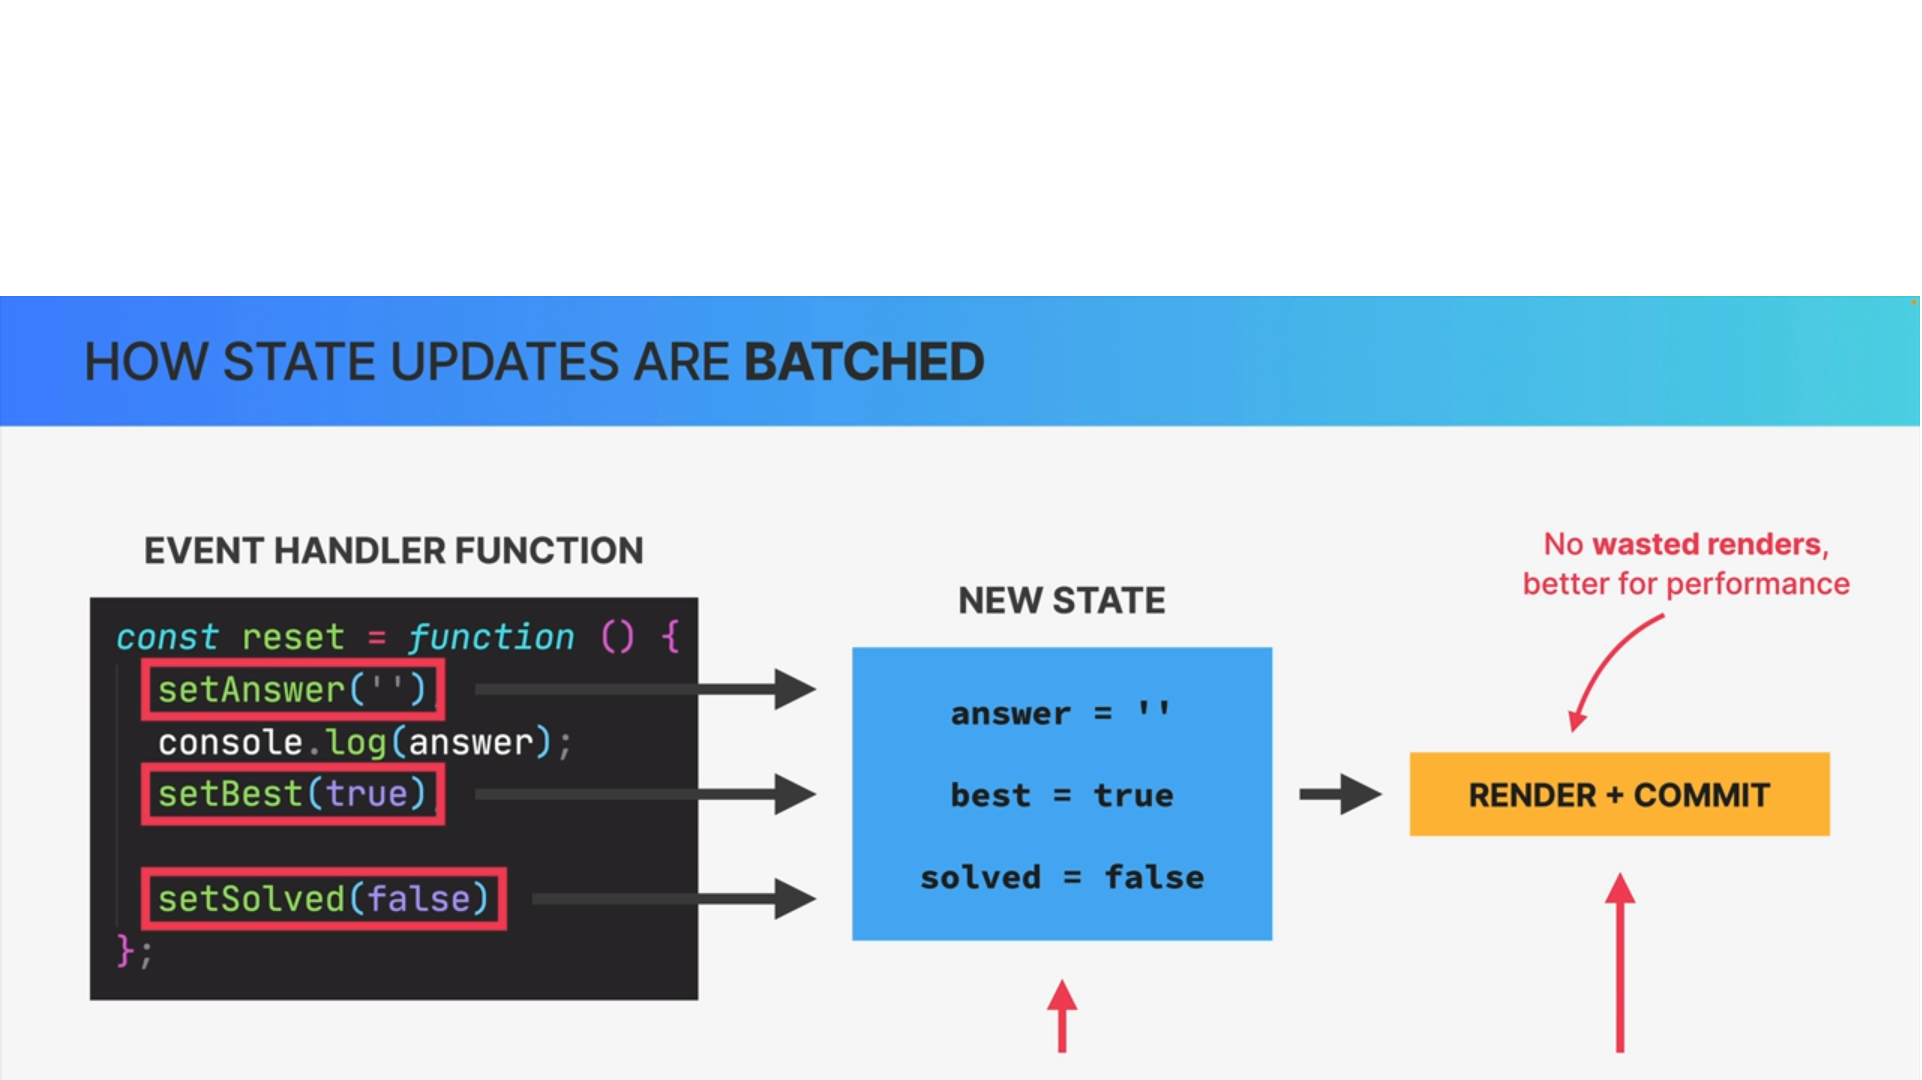
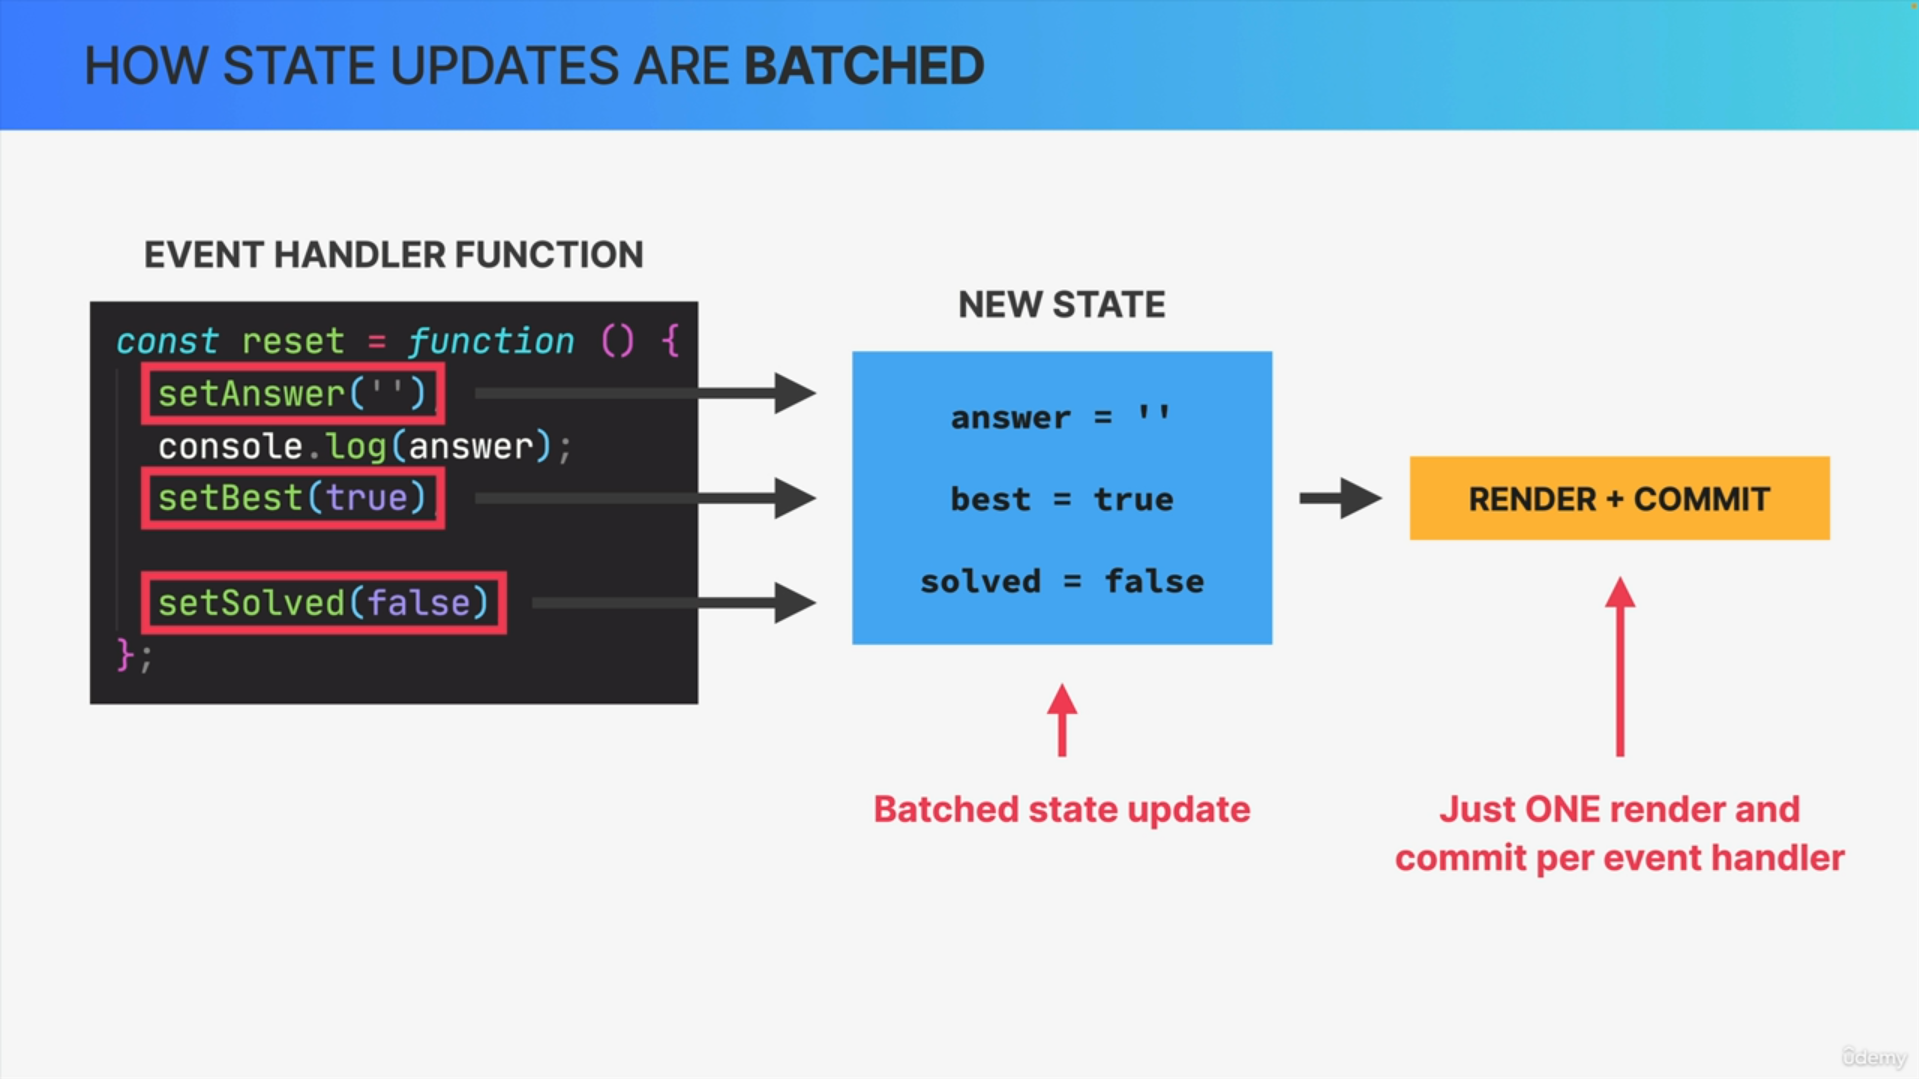
completed section-2

diff --git a/10 ReactJs/01-React/_Documentation_React.md b/10 ReactJs/01-React/_Documentation_React.md
@@ -1045,18 +1045,18 @@ The solution for the prop drilling is written below with composition component.
   }
 
   function App() {
-    const array = [
+      const array = [
       {
         id: 1,
-        name: 'John'
+        name: 'Deepinder'
       },
       {
         id: 2,
-        name: 'Deo'
+        name: 'Prerana Mam'
       },
       {
         id: 3,
-        name: 'Silvester'
+        name: 'Pramlila Mam'
       }
     ];
     return <div>
@@ -1069,15 +1069,19 @@ The solution for the prop drilling is written below with composition component.
   ![Image](./images/key.png)
 ---
 
-### 📘Render Logics
+### 📘Render Logics, Side Effect & Pure Functions
 
 ![Image](./images/types-of-render-logic.png)
 
-![Image](./images/rules-for-render-logic.png)
 
 ![Image](./images/functional-programming.png)
 
-## 📘How state updates are batched
+
+![Image](./images/rules-for-render-logic.png)
+
+---
+
+### 📘How state updates are batched
 
 ![Image](./images/how-state-updates-are-batched-1.png)
 
@@ -1089,30 +1093,37 @@ The solution for the prop drilling is written below with composition component.
 
 ![Image](./images/how-state-updates-are-batched-5.png)
 
-example
 
 ```js
-import React, { useState } from 'react';
-import "./App.css";
-function App() {
+import React, { useState } from "react";
+export function App() {
   const [count, setCount] = useState(0);
 
-  function updateCount() {
-    setCount(e => e + 1);
-    setCount(e => e + 1);
-    setCount(e => e + 1);
+  function updateSingleCount() {
+    setCount(count + 1);
+
+    // this will print one step back value because state value always update after commit
+    console.log(count);
   }
 
-  return (<div>
-    <h1>count : {count}</h1>
-    <button onClick={updateCount}>Increment by 3</button>
-  </div>)
+  function updateThreeCount() {
+    setCount((e) => e + 1);
+    setCount((e) => e + 1);
+    setCount((e) => e + 1);
+  }
+
+  return (
+    <div>
+      <h1>count : {count}</h1>
+      <button onClick={updateSingleCount}>Increment by 1</button>
+      <button onClick={updateThreeCount}>Increment by 3</button>
+    </div>
+  );
 }
-
-export default App;
 ```
+---
 
-## 📘Event Propagation and Delegation
+### 📘Event Propagation and Delegation
 
 ![Image](./images/event-propagation-event-delegation-1.png)
 
@@ -1120,37 +1131,58 @@ export default App;
 
 ![Image](./images/event-propagation-event-delegation-2.png)
 
-*  all the way until it reaches the target element and the target element is simply the element on which the event was actually first triggered. So at the target, we can choose to handle the event by placing and event handler function on that element.
-*  Then immediately after the target element has been reached, the event object travels all the way back up the entire tree during the so-called bubbling phase.
+* all the way until it reaches the target element and the target element is simply the element on which the event was actually first triggered. So at the target, we can choose to handle the event by placing and event handler function on that element.
+
+* Then immediately after the target element has been reached, the event object travels all the way back up the entire tree during the so-called bubbling phase.
 
 ![Image](./images/event-propagation-event-delegation-3.png)
 
 > Now there are two very important things to understand about this process
 
-* 1. The first is that during the capturing and bubbling phase, the event really goes through every single child and parent element one by one. in fact, it's as if the event originated or happened in each of these dom elements
+* The first is that during the capturing and bubbling phase, the event really goes through every single child and parent element one by one. in fact, it's as if the event originated or happened in each of these dom elements
+
 * The Second important thing is that by default, event handlers listen to events not only on the target but element also during the bubbling phase. so if we put these two things together, it means that every single event handler in a parent element will also be executed during the bubbling phase, as long as it's also listening for the same type of event **For example** *if we added another click event handler to the handler element, then during this whole process, both the handlers at the target and the header element would be executed when the click happens.*
 
 * Now, sometimes we actually don't want this behavior and so in that case, we can prevent the event from bubbling up any further simply by calling the **stop propagation** method on the event object
+
 * and this work in vanilla javascript and also in react, but it's actually very rarely necessary so only use this if there really is no other solution.
+
 * Okay, so this essentially how events work in the browser.
 
 ![Image](./images/event-propagation-event-delegation-4.png)
 
 ![Image](./images/event-propagation-event-delegation-5.png)
 
-## 📘Synthetic Events
+---
+
+### 📘Synthetic Events
 
 ![Image](./images/synthetic-events.png)
 
-## 📘React Third Party Library
+---
+
+### 📘React Third Party Library
 
 ![Image](./images/react-3rd-party-library.png)
 
+---
 
-# 📔Effects and Data Fetching
+### Summary
 
-## 📘Component lifecycle
+![Image](./images/summary-part-1.png)
+
+![Image](./images/summary-part-2.png)
+
+![Image](./images/summary-part-3.png)
+
+---
+
+## 📔Effects and Data Fetching
+
+### 📘Component lifecycle
+
 * Major point is here that component life cycle is totally depend upon **useEffect**
+
 * **useEffect** works only after the **painting on the browser** because if we Making an API request may cause the browser to become unresponsive until it receives a response from the server.
 
 
@@ -1158,7 +1190,7 @@ export default App;
 
 ---
 
-## 📘SideEffect
+### 📘SideEffect
 
 ![Image](./images/side-effect-in-react.png)
 
@@ -1496,9 +1528,9 @@ export default App;
 ```
 ---
 
-# 📔Custom Hooks, Refs, and More State
+## 📔Custom Hooks, Refs, and More State
 
-## 📘React Hooks and their rules
+### 📘React Hooks and their rules
 
 ![Image](./images/what-are-hooks.png)
 
